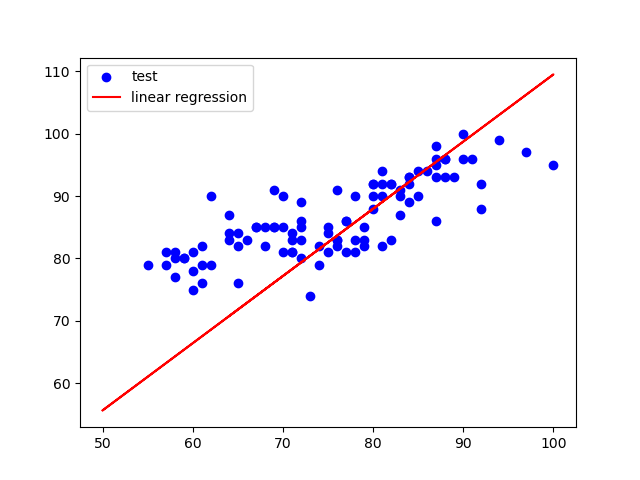
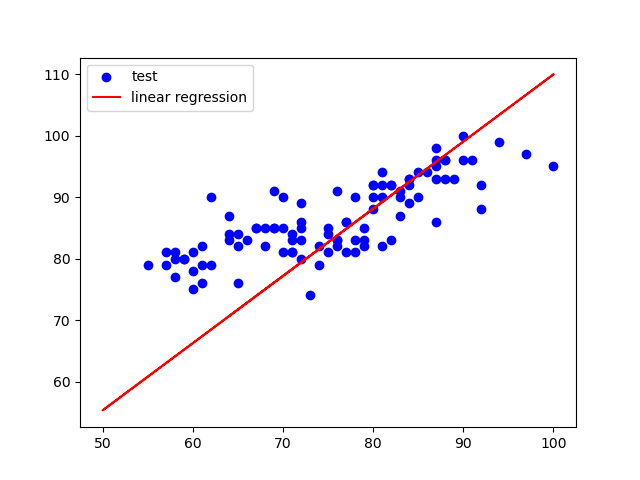
shit code

diff --git a/HW1_late/problem2_SGD.py b/HW1_late/problem2_SGD.py
@@ -1,0 +1,186 @@
+import numpy as np
+import pandas as pd
+import os
+from tqdm import tqdm
+import matplotlib.pyplot as plt
+
+# Base class
+class Layer:
+    def __init__(self):
+        self.input = None
+        self.output = None
+
+    def forward_propagation(self, input):
+        raise NotImplementedError
+
+    def backward_propagation(self, output_error, learning_rate):
+        raise NotImplementedError
+    
+
+class Linear(Layer):
+    # input_size = number of input neurons
+    # output_size = number of output neurons
+    def __init__(self, input_size, output_size):
+        self.weights = np.random.rand(input_size, output_size) - 0.5
+        self.bias = np.random.rand(1, output_size) - 0.5
+
+    # returns output for a given input
+    def forward_propagation(self, input_data):
+        self.input = input_data
+        self.output = np.dot(self.input, self.weights) + self.bias
+        return self.output
+
+    # computes dE/dW, dE/dB for a given output_error=dE/dY. Returns input_error=dE/dX.
+    def backward_propagation(self, output_error, learning_rate):
+        input_error = np.dot(output_error, self.weights.T)
+        weights_error = np.dot(self.input.T, output_error)
+        # dBias = output_error
+
+        # update parameters
+        self.weights -= learning_rate * weights_error
+        self.bias -= learning_rate * output_error
+        return input_error
+    
+class ActivationLayer(Layer):
+    def __init__(self, activation, activation_prime):
+        self.activation = activation
+        self.activation_prime = activation_prime
+
+    # returns the activated input
+    def forward_propagation(self, input_data):
+        self.input = input_data
+        self.output = self.activation(self.input)
+        return self.output
+
+    # Returns input_error=dE/dX for a given output_error=dE/dY.
+    # learning_rate is not used because there is no "learnable" parameters.
+    def backward_propagation(self, output_error, learning_rate):
+        return self.activation_prime(self.input) * output_error
+    
+
+class Network:
+    def __init__(self,layers):
+        self.layers = layers
+        self.loss = None
+        self.loss_prime = None
+
+    # add layer to network
+    def add(self, layer):
+        self.layers.append(layer)
+
+    # set loss to use
+    def use(self, loss, loss_prime):
+        self.loss = loss
+        self.loss_prime = loss_prime
+
+    # predict output for given input
+    def predict(self, input_data):
+        # sample dimension first
+        samples = len(input_data)
+        result = []
+
+        # run network over all samples
+        for i in range(samples):
+            # forward propagation
+            output = input_data[i]
+            for layer in self.layers:
+                output = layer.forward_propagation(output)
+            result.append(output)
+
+        return np.array(result)
+
+    # train the network
+    def fit(self, x_train, y_train, epochs, learning_rate):
+        # sample dimension first
+        samples = len(x_train)
+
+        # training loop
+        for i in tqdm(range(epochs)):
+            # apply SGD to one data randomly
+            # choose a random sample
+            sample = np.random.randint(samples)
+            x = x_train[sample].reshape(1,-1)
+            y = y_train[sample]
+            # breakpoint()
+            # forward propagation
+            for layer in self.layers:
+                x = layer.forward_propagation(x)
+            y_pred = x
+            err = self.loss(y, y_pred)
+            error = self.loss_prime(y, y_pred)
+            for layer in reversed(self.layers):
+                error = layer.backward_propagation(error, learning_rate)
+            print('epoch %d/%d   error=%f' % (i+1, epochs, err))
+
+
+def tanh(x):
+    return np.tanh(x)
+
+def tanh_prime(x):
+    return 1-np.tanh(x)**2
+
+def sigmoid(x):
+    return 1/(1+np.exp(-x))
+
+def sigmoid_prime(x):
+    return sigmoid(x)*(1-sigmoid(x))
+
+def mse(y_true, y_pred):
+    return np.mean(np.power(y_true-y_pred, 2))
+
+def mse_prime(y_true, y_pred):
+    return 2*(y_pred-y_true)/y_true.size
+
+def ReLU(x):
+    return np.maximum(0,x)
+def ReLU_prime(x):
+    return np.where(x>0,1,0)
+
+def standardize(X):
+    mean = np.mean(X,axis=0)
+    std = np.std(X,axis=0)
+    return (X-mean)/std
+
+
+if __name__ == '__main__':
+    # read datapoints from csv file
+    hw_scores = pd.read_csv(os.path.join('hw1_dataset','Problem 2','Averaged homework scores.csv'))
+    final_scores = pd.read_csv(os.path.join('hw1_dataset','Problem 2','Final exam scores.csv'))
+    results = pd.read_csv(os.path.join('hw1_dataset','Problem 2','Results.csv'))
+    X = standardize(np.array(hw_scores))
+    Y = standardize(np.array(final_scores))
+    Z = np.array(results)
+    data = np.concatenate((X,Y,Z),axis=1)
+    train_data = data[:400,:]
+    test_data = data[400:,:]
+    X_train = train_data[:,:2].reshape(-1, 2)
+    Y_train = train_data[:,2].reshape(-1, 1)
+    X_test = test_data[:,:2].reshape(-1, 2)
+    Y_test = test_data[:,2].reshape(-1, 1)
+    # breakpoint()
+    # create network
+    net = Network([Linear(2, 1),ActivationLayer(sigmoid, sigmoid_prime)])
+
+    # train
+    net.use(mse, mse_prime)
+    net.fit(X_train, Y_train, epochs=100, learning_rate=0.75)
+
+    # plot the prediction
+    plt.scatter(X_test[:,0],X_test[:,1],c=Y_test)
+    # calculate the loss on test_set
+    out = net.predict(X_test)
+    loss = mse(Y_test,out)
+    print('loss on test set: ', loss)
+    # plot the decision boundary
+    x1 = np.linspace(-2,2,100)
+    x2 = np.linspace(-2,2,100)
+    x1,x2 = np.meshgrid(x1,x2)
+    x1 = x1.reshape(-1,1)
+    x2 = x2.reshape(-1,1)
+    X = np.concatenate((x1,x2),axis=1)
+    y = net.predict(X).reshape(100,100)
+    plt.contour(np.linspace(-2,2,100),np.linspace(-2,2,100),y,levels=[0.5])
+    plt.xlabel('Homework score')
+    plt.ylabel('Final score')
+    plt.legend()
+    plt.savefig('problem2.png')

diff --git a/HW1_late/problem1_SGD.py b/HW1_late/problem1_SGD.py
@@ -1,0 +1,177 @@
+import numpy as np
+import pandas as pd
+import os
+from tqdm import tqdm
+import matplotlib.pyplot as plt
+
+# Base class
+class Layer:
+    def __init__(self):
+        self.input = None
+        self.output = None
+
+    def forward_propagation(self, input):
+        raise NotImplementedError
+
+    def backward_propagation(self, output_error, learning_rate):
+        raise NotImplementedError
+    
+
+class Linear(Layer):
+    # input_size = number of input neurons
+    # output_size = number of output neurons
+    def __init__(self, input_size, output_size):
+        self.weights = np.random.rand(input_size, output_size) - 0.5
+        self.bias = np.random.rand(1, output_size) - 0.5
+
+    # returns output for a given input
+    def forward_propagation(self, input_data):
+        self.input = input_data
+        self.output = np.dot(self.input, self.weights) + self.bias
+        return self.output
+
+    # computes dE/dW, dE/dB for a given output_error=dE/dY. Returns input_error=dE/dX.
+    def backward_propagation(self, output_error, learning_rate):
+        input_error = np.dot(output_error, self.weights.T)
+        weights_error = np.dot(self.input.T, output_error)
+        # dBias = output_error
+
+        # update parameters
+        self.weights -= learning_rate * weights_error
+        self.bias -= learning_rate * output_error
+        return input_error
+    
+class ActivationLayer(Layer):
+    def __init__(self, activation, activation_prime):
+        self.activation = activation
+        self.activation_prime = activation_prime
+
+    # returns the activated input
+    def forward_propagation(self, input_data):
+        self.input = input_data
+        self.output = self.activation(self.input)
+        return self.output
+
+    # Returns input_error=dE/dX for a given output_error=dE/dY.
+    # learning_rate is not used because there is no "learnable" parameters.
+    def backward_propagation(self, output_error, learning_rate):
+        return self.activation_prime(self.input) * output_error
+    
+
+class Network:
+    def __init__(self,layers):
+        self.layers = layers
+        self.loss = None
+        self.loss_prime = None
+
+    # add layer to network
+    def add(self, layer):
+        self.layers.append(layer)
+
+    # set loss to use
+    def use(self, loss, loss_prime):
+        self.loss = loss
+        self.loss_prime = loss_prime
+
+    # predict output for given input
+    def predict(self, input_data):
+        # sample dimension first
+        samples = len(input_data)
+        result = []
+
+        # run network over all samples
+        for i in range(samples):
+            # forward propagation
+            output = input_data[i]
+            for layer in self.layers:
+                output = layer.forward_propagation(output)
+            result.append(output)
+
+        return np.array(result)
+
+    # train the network
+    def fit(self, x_train, y_train, epochs, learning_rate, batch_size):
+        # sample dimension first
+        samples = len(x_train)
+
+        # training loop
+        for i in tqdm(range(epochs)):
+            # apply SGD to one data randomly
+            # choose a random sample
+            sample = np.random.randint(samples)
+            x = x_train[sample]
+            y = y_train[sample]
+            # breakpoint()
+            # forward propagation
+            for layer in self.layers:
+                x = layer.forward_propagation(x)
+            y_pred = x
+            err = self.loss(y, y_pred)
+            error = self.loss_prime(y, y_pred)
+            for layer in reversed(self.layers):
+                error = layer.backward_propagation(error, learning_rate)
+            print('epoch %d/%d   error=%f' % (i+1, epochs, err))
+
+
+def tanh(x):
+    return np.tanh(x)
+
+def tanh_prime(x):
+    return 1-np.tanh(x)**2
+
+def sigmoid(x):
+    return 1/(1+np.exp(-x))
+
+def sigmoid_prime(x):
+    return sigmoid(x)*(1-sigmoid(x))
+
+def mse(y_true, y_pred):
+    return np.mean(np.power(y_true-y_pred, 2))
+
+def mse_prime(y_true, y_pred):
+    return 2*(y_pred-y_true)/y_true.size
+
+def ReLU(x):
+    return np.maximum(0,x)
+def ReLU_prime(x):
+    return np.where(x>0,1,0)
+
+def standardize(X):
+    mean = np.mean(X,axis=0)
+    std = np.std(X,axis=0)
+    return (X-mean)/std
+
+
+if __name__ == '__main__':
+    # read datapoints from csv file
+    hw_scores = pd.read_csv(os.path.join('hw1_dataset','Problem 1','Averaged homework scores.csv'))
+    final_scores = pd.read_csv(os.path.join('hw1_dataset','Problem 1','Final exam scores.csv'))
+    X = np.array(hw_scores.values)
+    Y = np.array(final_scores.values)
+    data = np.concatenate((X,Y),axis=1)
+    train_data = data[:400,:]
+    test_data = data[400:,:]
+    X_train = train_data[:,0].reshape(-1, 1)
+    Y_train = train_data[:,1].reshape(-1, 1)
+    X_test = test_data[:,0].reshape(-1, 1)
+    Y_test = test_data[:,1].reshape(-1, 1)
+    # breakpoint()
+    # create network
+    net = Network([Linear(1,2),Linear(2,1)])
+
+    # create network
+    net = Network([Linear(1, 2),Linear(2, 1)])
+
+    # train
+    net.use(mse, mse_prime)
+    net.fit(X_train, Y_train, epochs=100, learning_rate=1e-5,batch_size=50)
+
+    # test
+    out = net.predict(X_test)
+    # calculate the loss on test_set
+    loss = mse(Y_test,out)
+    print('loss on test set: ', loss)
+    plt.scatter(X_test, Y_test,color='blue',label='test')
+    plt.plot(X_train, net.predict(X_train).reshape(-1,1), color='red',label= 'linear regression')
+    plt.legend()
+    plt.savefig('problem1.png')
